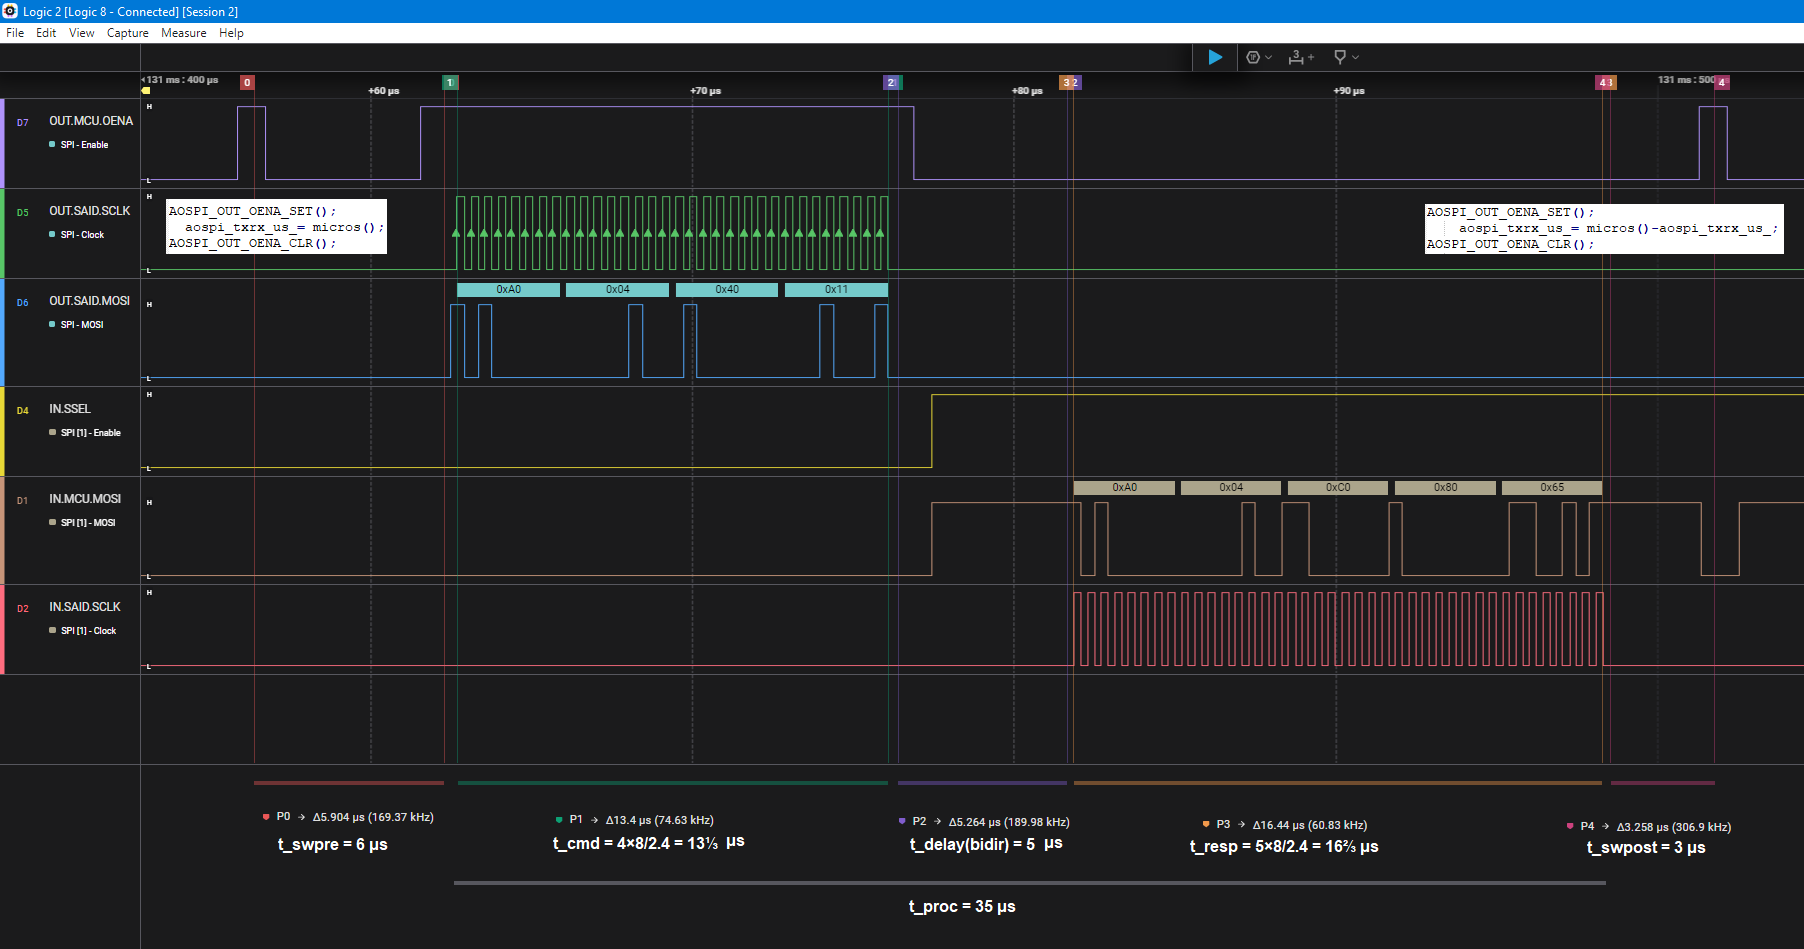
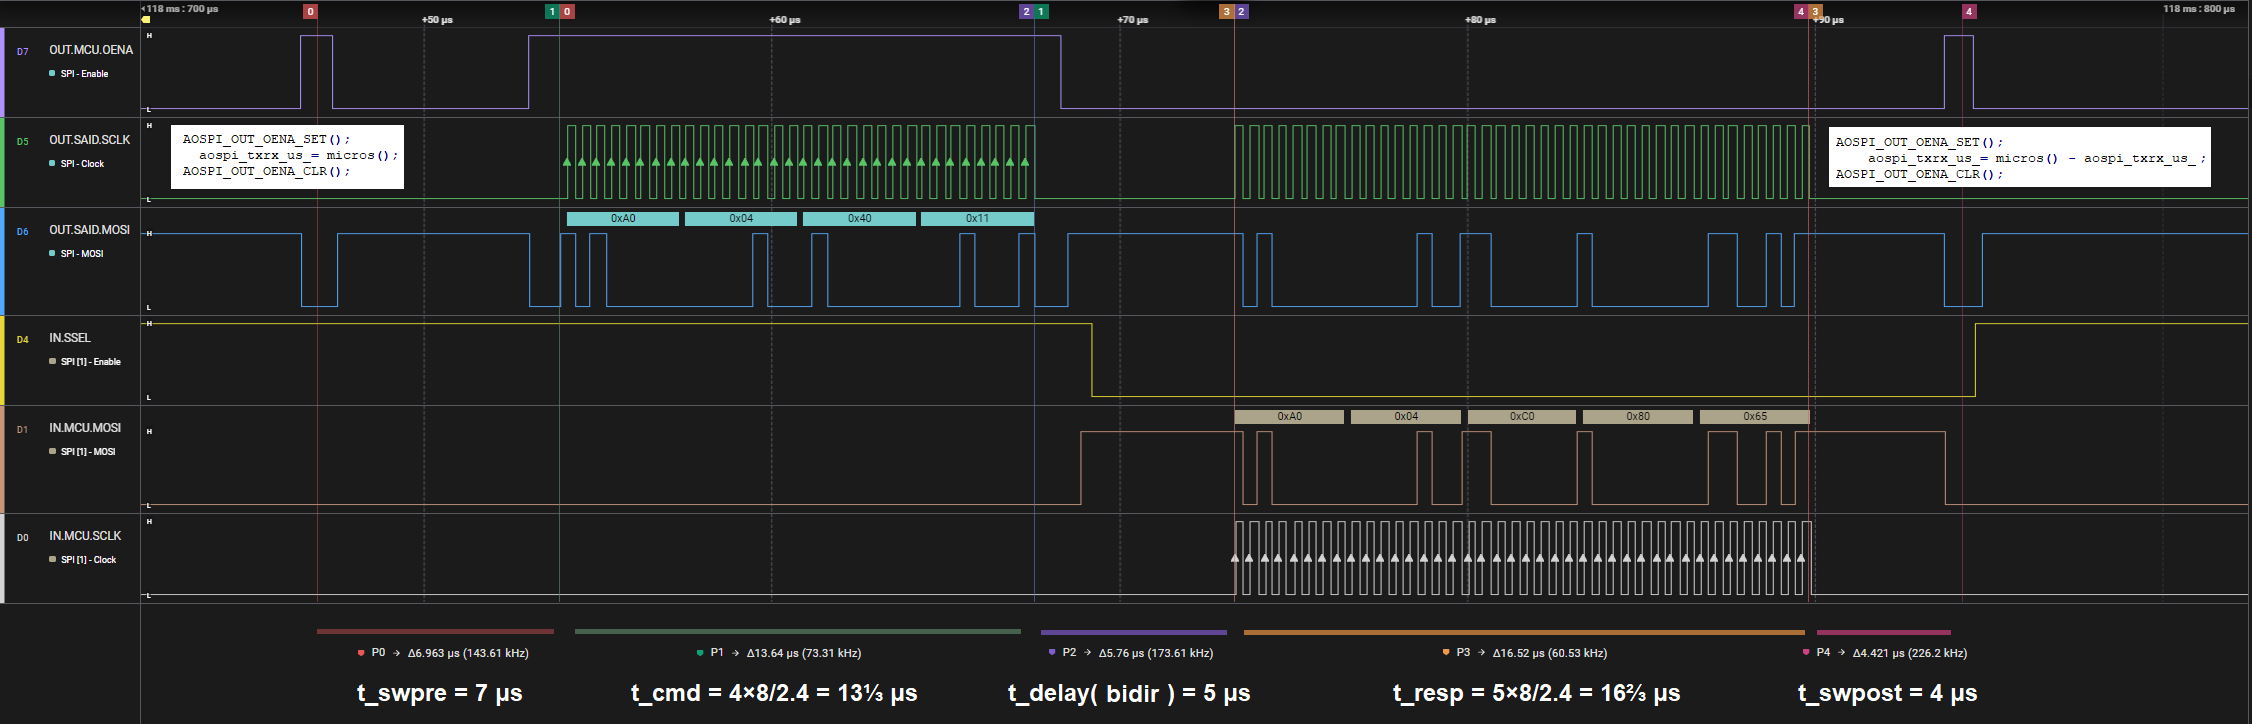
0.5.6
- Telegram dissector (`python\telegram`) now shows casting mode.
- Replaced clock tapping mechanism in `aospi.cpp`; from ISR to polling (faster).

diff --git a/src/aospi.cpp b/src/aospi.cpp
@@ -184,14 +184,14 @@ aoresult_t aospi_tx(const uint8_t * tx, int txsize) {
 #define AOSPI_IN_MOSI       12
 #define AOSPI_IN_SSEL       47
 #define AOSPI_IN_MISO       -1
-// Output pin wired to AOSPI_IN_SSEL to control slave select
+// Output pin externally wired to AOSPI_IN_SSEL to control slave select
 #define AOSPI_IN_MSEL       21
-// We need to release MSEL, for this we tap the clock lines in an ISR
-#define AOSPI_IN_CINT        2
+// We need to release MSEL, for this we tap the clock line; SCLK is externally wired to CINT
+#define AOSPI_IN_CINT        2 
 // Finally, there are two extra pins in use to control the level shifters
 // Note: two uni-directional level shifters are used: one for first node (BIDIR), one for last (LOOP).
-// Note: The B-sides (3V3, MCU) are the ones that are en/disabled
-// Only one is enabled, AOSPI_IN_DIRL selects which, AOSPI_IN_OENA enables.
+// Note: The B-sides of level shifter (3V3, MCU side) are the ones that are en/disabled
+// Only one is enabled with AOSPI_IN_OENA, AOSPI_IN_DIRL selects which.
 #define AOSPI_IN_OENA        1 // Level-shifter output-enable
 #define AOSPI_IN_DIRL       14 // To select direction Loop (or BiDir)
 
@@ -202,6 +202,8 @@ aoresult_t aospi_tx(const uint8_t * tx, int txsize) {
 #define AOSPI_IN_OENA_SET()  do GPIO.out_w1ts = 1UL << AOSPI_IN_OENA; while(0)
 #define AOSPI_IN_MSEL_CLR()  do GPIO.out_w1tc = 1UL << AOSPI_IN_MSEL; while(0)
 #define AOSPI_IN_MSEL_SET()  do GPIO.out_w1ts = 1UL << AOSPI_IN_MSEL; while(0)
+// digitalRead(AOSPI_IN_CINT) is too slow so we resort to register reads (GPIO.in.val for some ESP derivatives)
+#define AOSPI_IN_CINT_GET() (GPIO.in & (1<<AOSPI_IN_CINT))
 
 
 // Select which of the two SPI controllers of the ESP to use for IN
@@ -214,14 +216,6 @@ aoresult_t aospi_tx(const uint8_t * tx, int txsize) {
 //   1400+2×8×(k-1) us for an answer (in BiDir).
 // The maximum number is BiDir with a longest chain of 1002 nodes.
 #define AOSPI_IN_TIMEOUT_US      (1400+2*8UL*(1002-1))
-
-
-// To determine when to release MSEL, we tap the clock line and count rising edges
-static volatile int aospi_in_clockcount;
-static void IRAM_ATTR aospi_in_clockcount_isr() { // ISR must be in IRAM
-  aospi_in_clockcount= aospi_in_clockcount + 1; // ++ deprecated on volatile
-}
-#define spiin_clockcount_reset() do aospi_in_clockcount=0; while(0)
 
 
 static uint32_t aospi_txrx_us_;
@@ -253,7 +247,7 @@ uint32_t aospi_txrx_us() {
 }
 
 
-static uint32_t aospi_txrx_size_;
+static int aospi_txrx_size_;
 /*!
     @brief  Returns an estimate of the number of hops a command telegram and
             its response telegram need in a bidirectional round trip.
@@ -290,8 +284,9 @@ uint32_t aospi_txrx_hops(int t_extra) {
   if( t_proc>aospi_txrx_us_ ) return 0;
   // Time for all hops together
   uint32_t t_hop = aospi_txrx_us_ - t_proc;
-  // t_fwd=7.5us; (t_hop+7.5/2)/7.5 = (t_hop*4+7.5/2*4) / 7.5*4 = (t_hop*4+15) / 30
-  return (t_hop*4+15)/30;
+  // t_fwd=7.5us; dividing t_hop by t_fwd gives number of hops (add 7.5/2 for rounding)
+  // (t_hop+7.5/2)/7.5 = (t_hop*100+3.75*100) / 7.5*100 = (t_hop*100+375) / 750
+  return (t_hop*100+375)/750;
 }
 
 
@@ -310,8 +305,9 @@ static void aospi_in_init() {
   // Slave deselected (active low)
   pinMode     (AOSPI_IN_MSEL, OUTPUT);
   digitalWrite(AOSPI_IN_MSEL, HIGH  ); // do not swap with previous line (e.g. aoosp_topo.ino breaks on resetinit)
-  // Clock interrupt counting
-  attachInterrupt(AOSPI_IN_CINT, aospi_in_clockcount_isr, RISING);
+  // Clock monitoring (to determine when to release MSEL, we tap the clock line)
+  // Clock tap was previously handled by interrupt (hence the name CINT, now polling)
+  pinMode     (AOSPI_IN_CINT, INPUT);
   // Disable level shifter output
   digitalWrite(AOSPI_IN_OENA, LOW   );
   pinMode     (AOSPI_IN_OENA, OUTPUT);
@@ -404,7 +400,8 @@ aoresult_t aospi_txrx(const uint8_t * tx, int txsize, uint8_t * rx, int rxsize, 
   aospi_in.queue(NULL, aospi_in_buf, AOSPI_TELE_MAXSIZE ); // aospi_in doesn't send data to master (NULL), it only receives (aospi_in_buf)
   aospi_in.trigger();
 
-  aospi_txrx_us_= micros(); // record start time
+  // record start time
+  aospi_txrx_us_= micros(); 
   
   // aospi_tx() inlined here for speed
   aospi_out.beginTransaction(SPISettings(AOSPI_OUT_FREQ, MSBFIRST, SPI_MODE0)); // TX uses mode 0
@@ -420,45 +417,44 @@ aoresult_t aospi_txrx(const uint8_t * tx, int txsize, uint8_t * rx, int rxsize, 
 
     // WARNING: can not 'return' until MSEL is de-asserted
     
-    // Start looking for spiin clocks (they mark arrival or a response)
-    spiin_clockcount_reset();
-    
     // Now the background reception is running; have time to end the inlined spi_tx()
     aospi_out.endTransaction();
 
-    // Wait till data starts arriving (ie wait till first bit/clock)
-    uint32_t start = micros();
-    while( aospi_in_clockcount==0 && micros()-start<AOSPI_IN_TIMEOUT_US ) {
-      // wait for a clock interrupt
+    // Wait till data starts arriving (ie wait till first clock line flip)
+    uint32_t start = micros(); // Capture start time for timeout
+    uint32_t cint = AOSPI_IN_CINT_GET(); // Capture current state of clock line (via CINT tap)
+    int      clkflip = 0; // Clock flip detected
+    while( micros()-start<AOSPI_IN_TIMEOUT_US ) { // wait for first clock flip
+      if( cint!=AOSPI_IN_CINT_GET() ) { clkflip=1; break; }
     };
     // Wait till whole telegram should have been received (all bits/clocks)
-    // todo: experiments show that (1) not all clocks are picked up by ISR, (2) once while loop ends aospi_in_clockcount will not change anymore. Don't understand why. This means that the delay is not needed.
-    aospi_txrx_us_= micros() - aospi_txrx_us_ - 11; // record end time (should be after delay, but see line above) // -11 is sw overhead
-    uint32_t tele_us = ((rxsize*8)-aospi_in_clockcount)/2; // one byte is 8 clocks a 1/2us (==2Mhz)
+    uint32_t tele_us = (rxsize*800)/230; // 8 clocks per byte at 2.4MHz (both *100) - we assumed a slightly slower clock to be save.
     delayMicroseconds(tele_us);
+
+    // record end time; sw overhead is 7+4
+    aospi_txrx_us_= micros() - aospi_txrx_us_ - 11; 
 
   // Disable reception
   AOSPI_IN_MSEL_SET(); // stop chip select - fast implementation of digitalWrite(AOSPI_IN_MSEL, HIGH)
   AOSPI_IN_OENA_CLR(); // disable level shifter - fast implementation of digitalWrite(AOSPI_IN_OENA, LOW)
 
-  // Update counters
-  aospi_txcount++;
-  aospi_rxcount++;
-  
   // Get the received data
   if( aospi_in.numTransactionsInFlight()!=0 && aospi_in.numTransactionsCompleted()!=1 ) return aoresult_assert; // should not happen (buffers pending in flight)
   int rxact= aospi_in.numBytesReceived();
   memcpy(rx,aospi_in_buf,min(rxact,rxsize));
 
+  // Update stats counters
+  aospi_txcount++;
+  aospi_rxcount++;
   aospi_txrx_size_ = txsize + rxact;
 
   // Return result
-  if( aospi_in_clockcount==0      ) return aoresult_spi_noclock; // no clocks seen (the telegram might still have been received, but this still took too much time, so we flag that as an error)
-  if( actsize==0 && rxact!=rxsize ) return aoresult_spi_length;  // wrong-num-bytes
+  if( clkflip==0 ) return aoresult_spi_noclock; // no clocks seen (the telegram might still have been received, but this still took too much time, so we flag that as an error)
+  if( actsize==0 && rxact!=rxsize ) return aoresult_spi_length;  // wrong number of bytes received
   if( actsize!=0 ) *actsize=rxact;
   return aoresult_ok; // rx successful
 }
-// todo: multiple aospi_txrx's in a row have a 10ms wait now and then is this caused by 'slave' lib using freeRTOS?
+// todo: Multiple aospi_tx[rx]s in a row have a 10ms wait now and then. Is this caused by 'slave' lib using freeRTOS?
 
 
 // === Direction MUX ========================================================

diff --git a/python/telegram/telegram.py b/python/telegram/telegram.py
@@ -7,7 +7,7 @@ ospcrcfunc = crcmod.mkCrcFun(0b100101111, initCrc=0, rev=False, xorOut=0)
 
 
 # Lookup table for PSI value to actual meaning
-psilookup=['0','1','2','3','4','-','6','8']
+psilookup=['0','1','2','3','4','rsv','6','8']
 
 
 # Lookup table for TID value to telegram name
@@ -290,7 +290,10 @@ def printdissection(telebytes) :
   print("meaning   ",end="")
   s= f"-"
   print( f"|{s:^{4*2-1}}", end="" )
-  s= f"{address10v}"
+  if address10v==0 : s="broadcast"
+  elif address10v< 0x3F0 : s=f"unicast({address10v})"
+  elif  address10v< 0x3FF : s=f"groupcast({address10v-0x3F0})"
+  else : s="error"
   print( f"|{s: ^{10*2-1}}", end="" )
   s= f"{psilookup[psi3v]}"
   print( f"|{s: ^{3*2-1}}", end="" )

diff --git a/src/aospi.h b/src/aospi.h
@@ -27,7 +27,7 @@
 
 
 // Identifies lib version
-#define AOSPI_VERSION "0.5.5"
+#define AOSPI_VERSION "0.5.6"
 
 
 // OSP uses telegrams of max 12 bytes

diff --git a/readme.md b/readme.md
@@ -202,14 +202,17 @@ when telegrams are being send over SCLK/MOSI.
 
 > Sending command telegrams (TX) uses the so-called _OUT_ pipe (perspective of the ESP).
 
-There are in total seven lines (bottom part of drawing) for receiving response telegrams: 
-clock (SCLK), data (MOSI), enable (ONEA);
-and also one to tap clock interrupts (CINT).
-Furthermore the SPI slave needs a select line (SSEL), 
-and since the OSP node doesn't have that, the ESP generates it (MSEL).
+There are in total seven lines (bottom part of drawing) for receiving 
+response telegrams: clock (SCLK), data (MOSI), enable (ONEA); and also 
+one tap to monitor the clock (CINT) - this used to be done with an 
+interrupt, hence the now bad name.
+
+Furthermore the SPI slave in the ESP needs as input a select line (SSEL), 
+and since the OSP node doesn't provide that, the ESP generates it (MSEL).
 Finally, there is a GPIO line (DIRL) that controls the BiDir or Loop mode -
 it controls whether the IN.BIDIR or the IN.LOOP level shifter has its
-output enabled (towards the ESP). This implements a direction mux.
+output enabled (towards the ESP) when OENA asserts. 
+This implements a _direction mux_.
 
 > Receiving response telegrams (RX) uses the so-called _IN_ pipe (perspective of the ESP).
 
@@ -480,8 +483,8 @@ This chapter explains the execution architecture in more detail.
   the moments the round trip timing measurements are made in the driver.
   
   This allows us to validate the theoretical timings with reality.
-  There is a bit of time cause introduced by software, but the match
-  is quite accurate, see below trace.
+  There is a bit of time delay introduced by software 
+  (`t_swpre` and `t_swpost`), but the match is quite accurate, see below trace.
   
   ![OSP32overview](extras/roundtriptiming.png)
 
@@ -589,18 +592,16 @@ This chapter explains the execution architecture in more detail.
   bytes. If MSEL would de-assert early, the SPI driver would return a 
   transaction (byte buffer) of length 0.
   
-  To solve this there is another line, a tap on SCLK to GPIO pin CINT.
-  An interrupt service routine attached to that counts clock ticks.
+  To solve this there is another line, a tap on SCLK to GPIO pin named CINT.
+  A busy wait checks for the first clock flip on CINT.
   Since response telegram length is given (max 12 bytes or 96 clock ticks) 
-  this tells when to de-assert MSEL once an interrupt for a clock tick has 
-  occurred.
+  this tells when to de-assert MSEL once this first flip is detected.
   
   The `wait for response` (above) is implemented as follows.
   
   ```
-    reset counter that counts clock tick (in ISR)
-    wait while counter stays zero but no longer than 17.4ms (timeout)
-    wait (response length - counter)/2.4MHz
+    wait for flip on CINT but no longer than 17.4ms (timeout)
+    wait num bytes in response *8 / 2.4MHz
   ```
   
 - The time out of 17.4 ms used in the code is based on the worst-case chain 
@@ -679,6 +680,10 @@ The figure below shows details of the INITLOOP command and response.
 
 
 ## Version history _aospi_
+
+- **2024 October 22, 0.5.6**
+  - Telegram dissector (`python\telegram`) now shows casting mode.
+  - Replaced clock tapping mechanism in `aospi.cpp`; from ISR to polling (faster).
 
 - **2024 October 16, 0.5.5**
   - Added telegram dissector with CRC computation (in Python).
